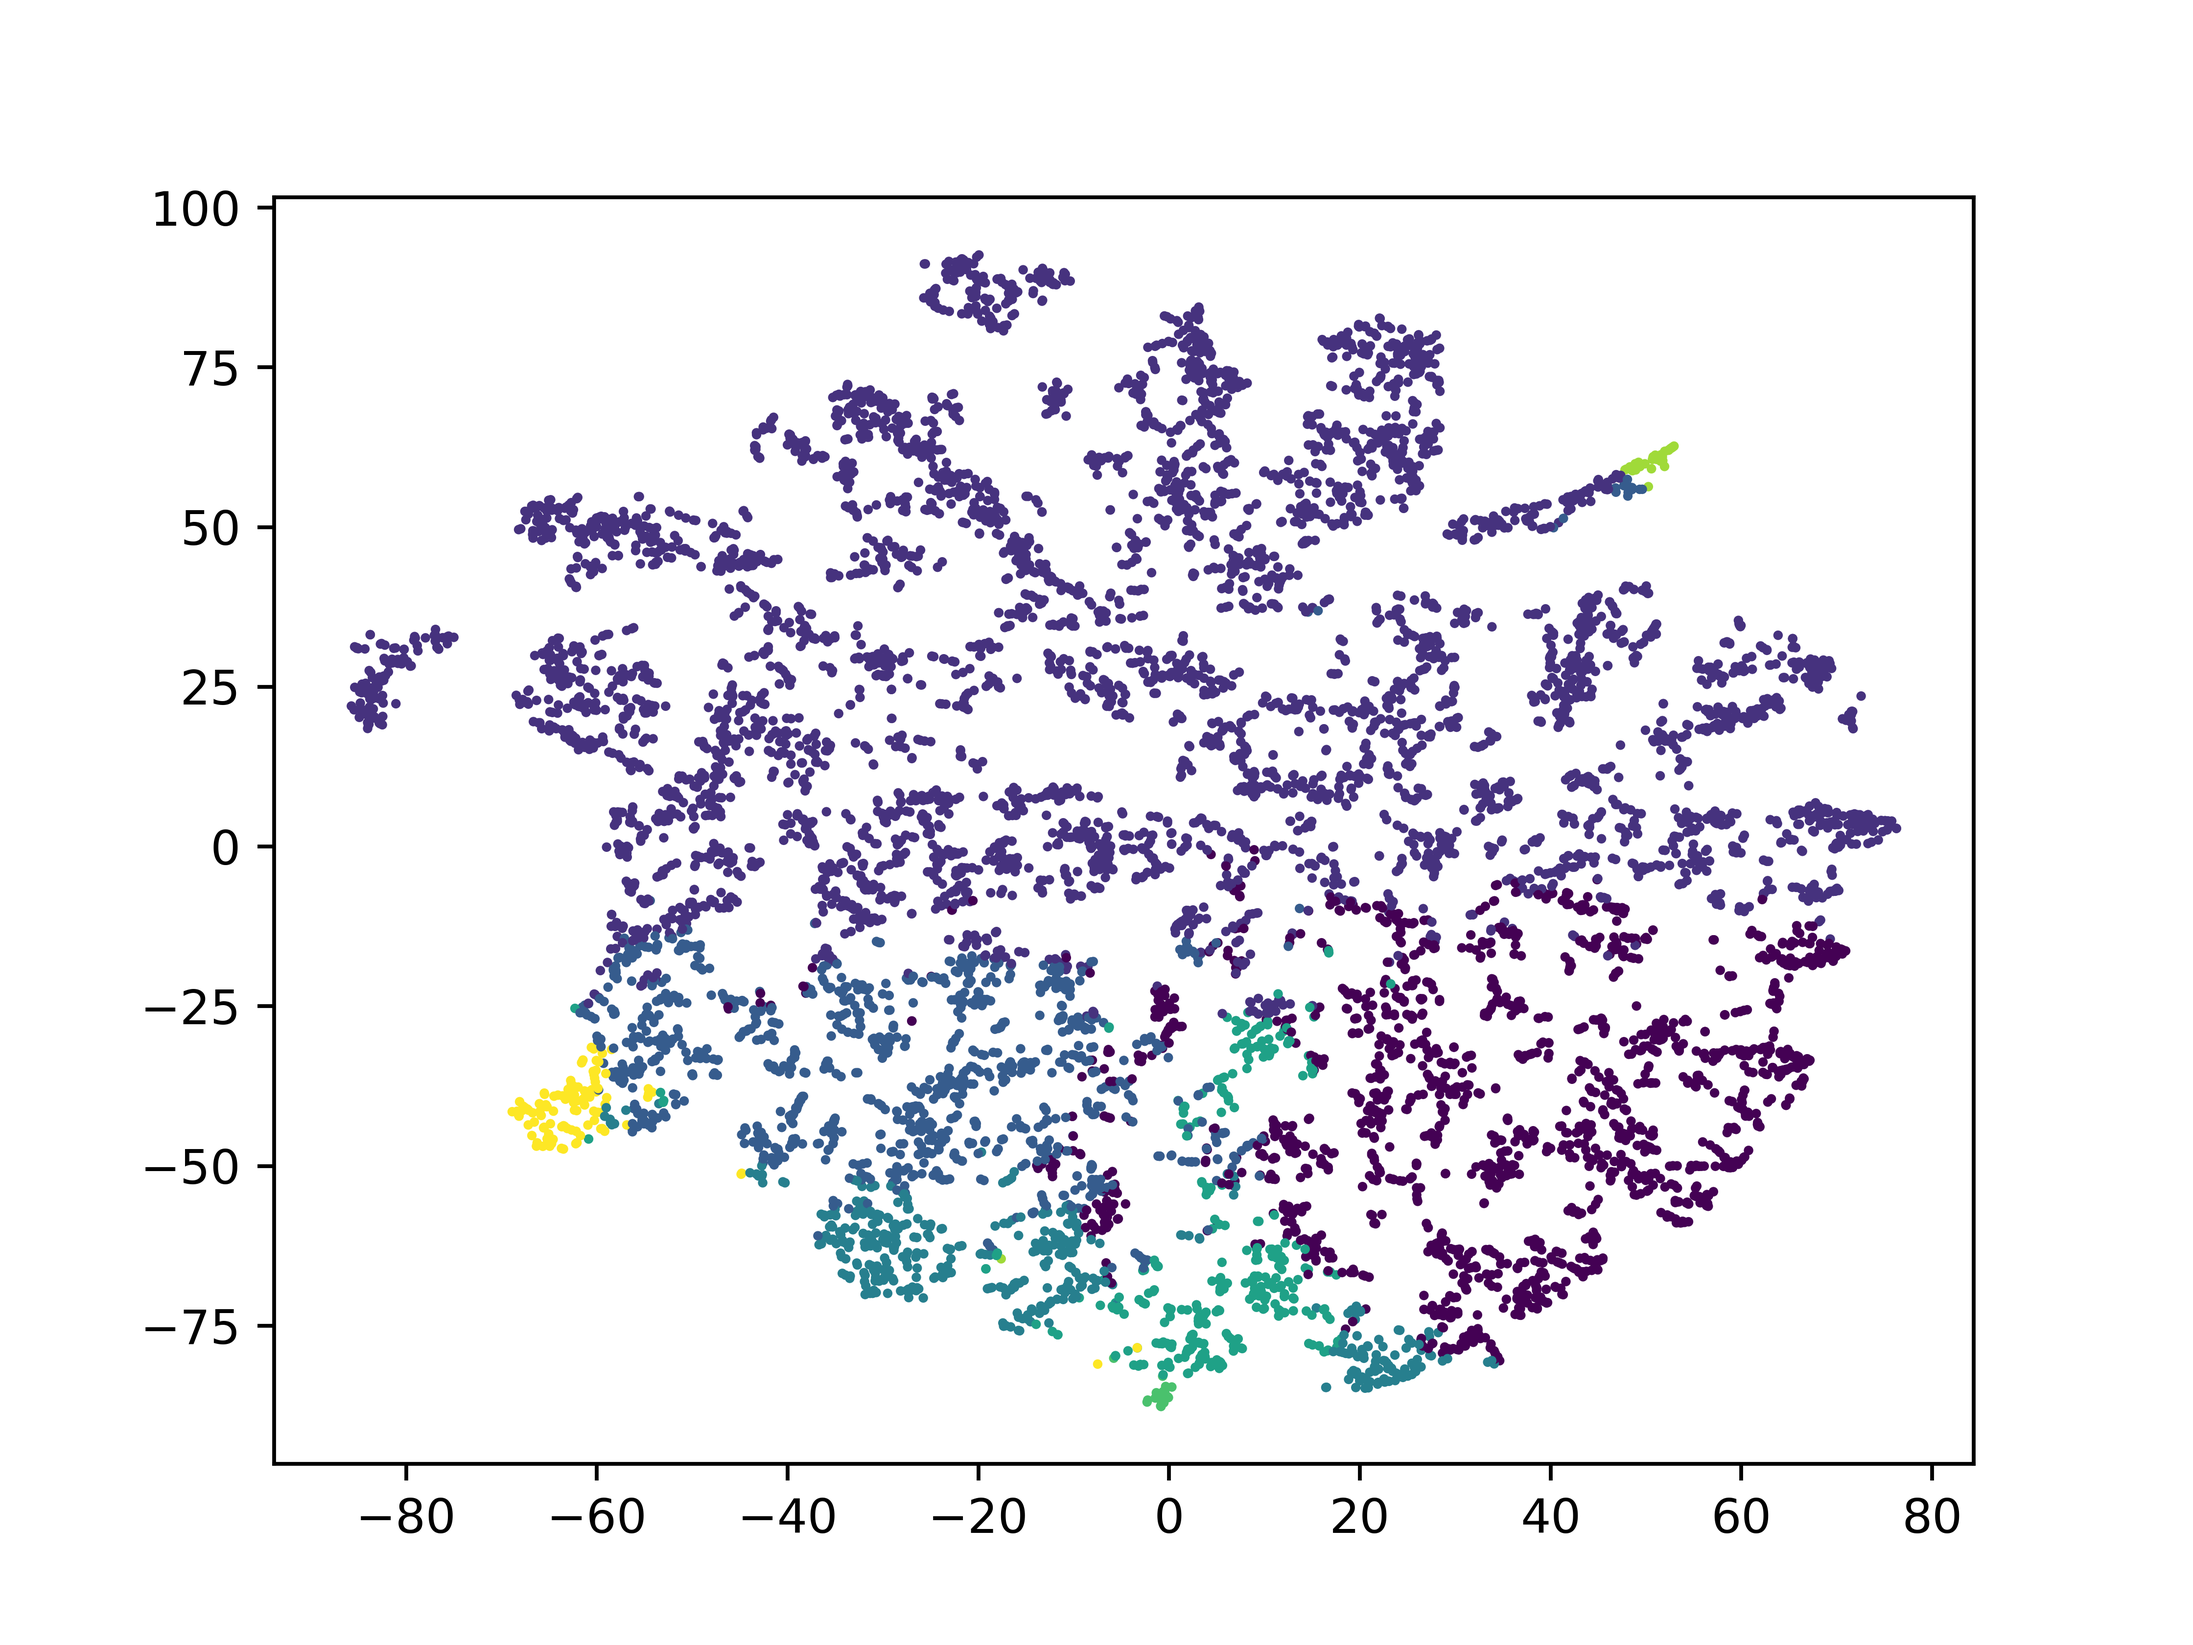
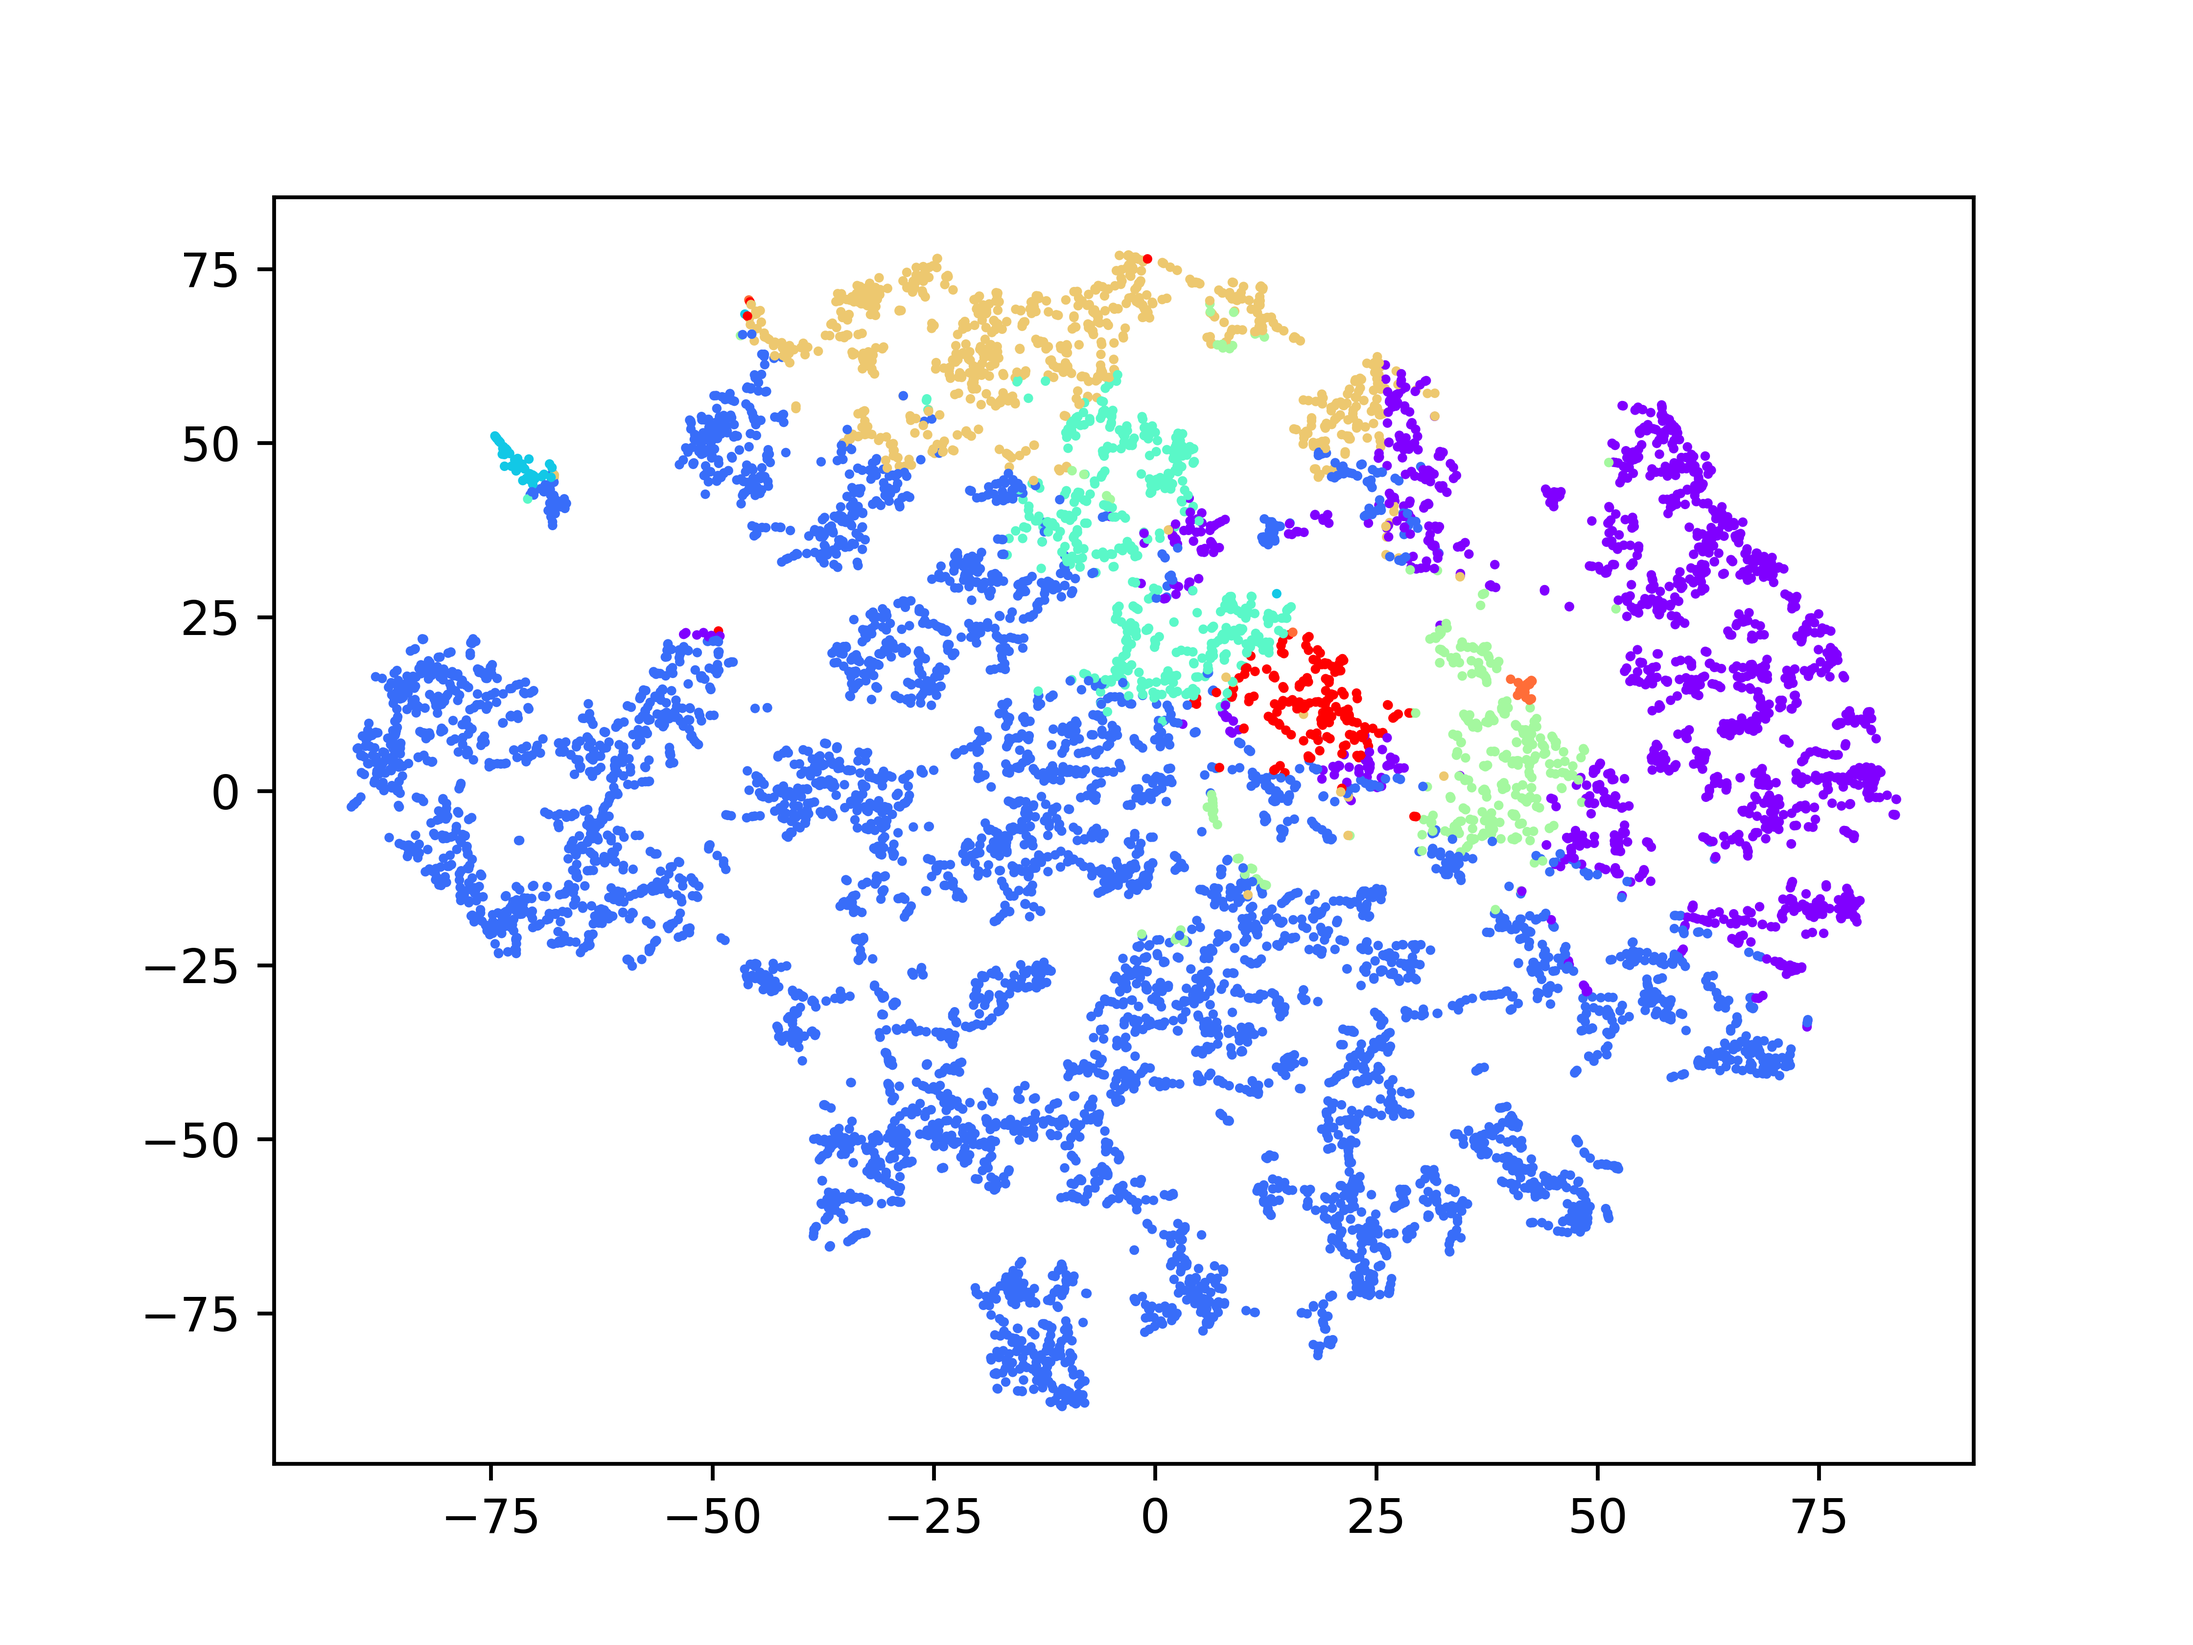
rename methods file

diff --git a/main.py b/main.py
@@ -5,17 +5,26 @@ import matplotlib.pyplot as plt
 import datetime, time
 from evaluate import unsupervised_evaluate
 # our own methods
-from clustering.kmeans import kmeans_clustering
+from clustering.partition_based_methods import kmeans_clustering
+from clustering.density_based_methods import dbscan_clustering
+from clustering.density_based_methods import optics_clustering
+from clustering.hierarchical_based_methods import agglomerative_clustering
 
 ccdata = dataset('./data/cc_general.csv')
 
-data = ccdata.data()
+data = ccdata.data(pca_dim=6)
 
 methods = [
         {"func":kmeans_clustering, "name":'kmeans'},
+        {"func":dbscan_clustering, "name":'dbscan'},
+        {"func":optics_clustering, "name":'optics'},
+        {"func":agglomerative_clustering, "name":'agglomerative'},
         # {},
         # {"func":other_cluster, "name":'other_cluster'},
     ]
+
+tsne = TSNE(init='random',learning_rate=200.0)
+embedding = tsne.fit_transform(data)
 
 for method in methods:
     if "func" not in method:
@@ -35,10 +44,7 @@ for method in methods:
         # do evaluate
         unsupervised_evaluate(data, cluster_id)
 
-        tsne = TSNE(init='random',learning_rate=200.0)
-        embedding = tsne.fit_transform(data)
-
-        plt.scatter(embedding[:,0], embedding[:,1], c=cluster_id, s=1)
+        plt.scatter(embedding[:,0], embedding[:,1], c=cluster_id, s=1, cmap='rainbow')
         plt.savefig(f'./fig/{method["name"]}', dpi=700)
         print()
     except:

diff --git a/dataset.py b/dataset.py
@@ -1,6 +1,8 @@
 import numpy as np
 import pandas as pd
 from pandas.core.frame import DataFrame
+from sklearn import preprocessing
+from sklearn.decomposition import PCA
 
 
 class dataset():
@@ -19,5 +21,17 @@ class dataset():
             df.dropna(inplace=True)
         df.info()
         self.df = df
-    def data(self):
-        return self.df.values
+    def data(self, pca_dim=None, standard='standard'):
+        value = self.df.values
+        if pca_dim is not None:
+            pca = PCA(n_components=pca_dim)
+            value = pca.fit_transform(value)
+        if standard == 'maxmin':
+            scaler = preprocessing.MinMaxScaler()
+            scaler.fit(value)
+            value = scaler.transform(value)
+        elif standard == 'standard':
+            scaler = preprocessing.StandardScaler()
+            scaler.fit(value)
+            value = scaler.transform(value)
+        return value

diff --git a/clustering/density_based_methods.py b/clustering/density_based_methods.py
@@ -1,0 +1,11 @@
+from sklearn.cluster import DBSCAN
+from sklearn.cluster import OPTICS
+
+def dbscan_clustering(data):
+    dbscan = DBSCAN(eps=0.01)
+    label = dbscan.fit_predict(data)
+    return label
+
+def optics_clustering(data):
+    optics = OPTICS()
+    return optics.fit_predict(data)

diff --git a/clustering/hierarchical_based_methods.py b/clustering/hierarchical_based_methods.py
@@ -1,0 +1,5 @@
+from sklearn.cluster import AgglomerativeClustering
+
+def agglomerative_clustering(data):
+    cluster = AgglomerativeClustering(n_clusters=5)
+    return cluster.fit_predict(data)
